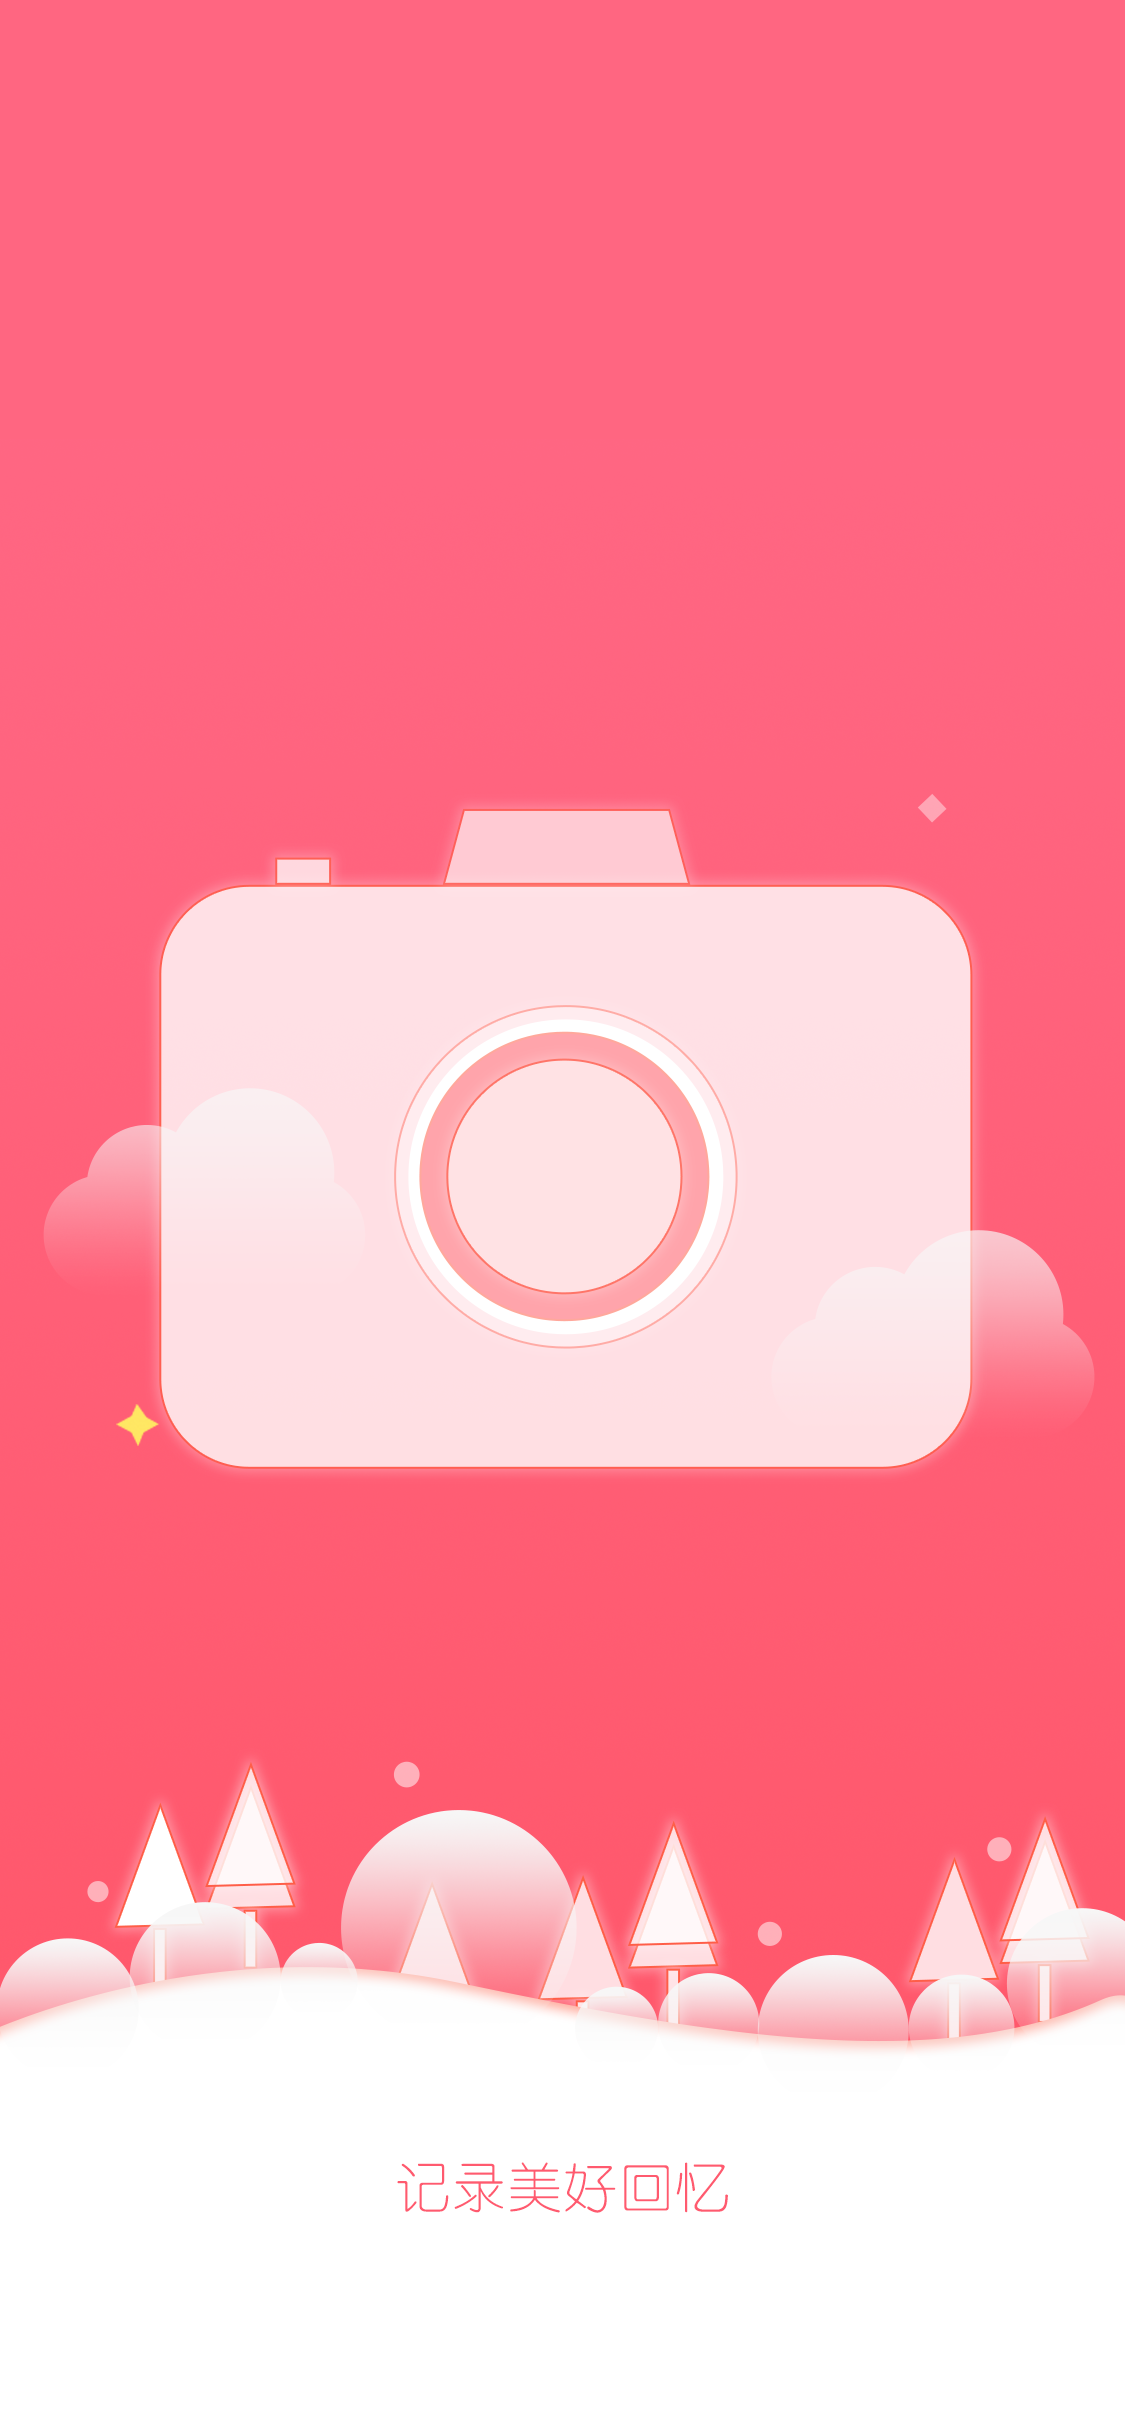
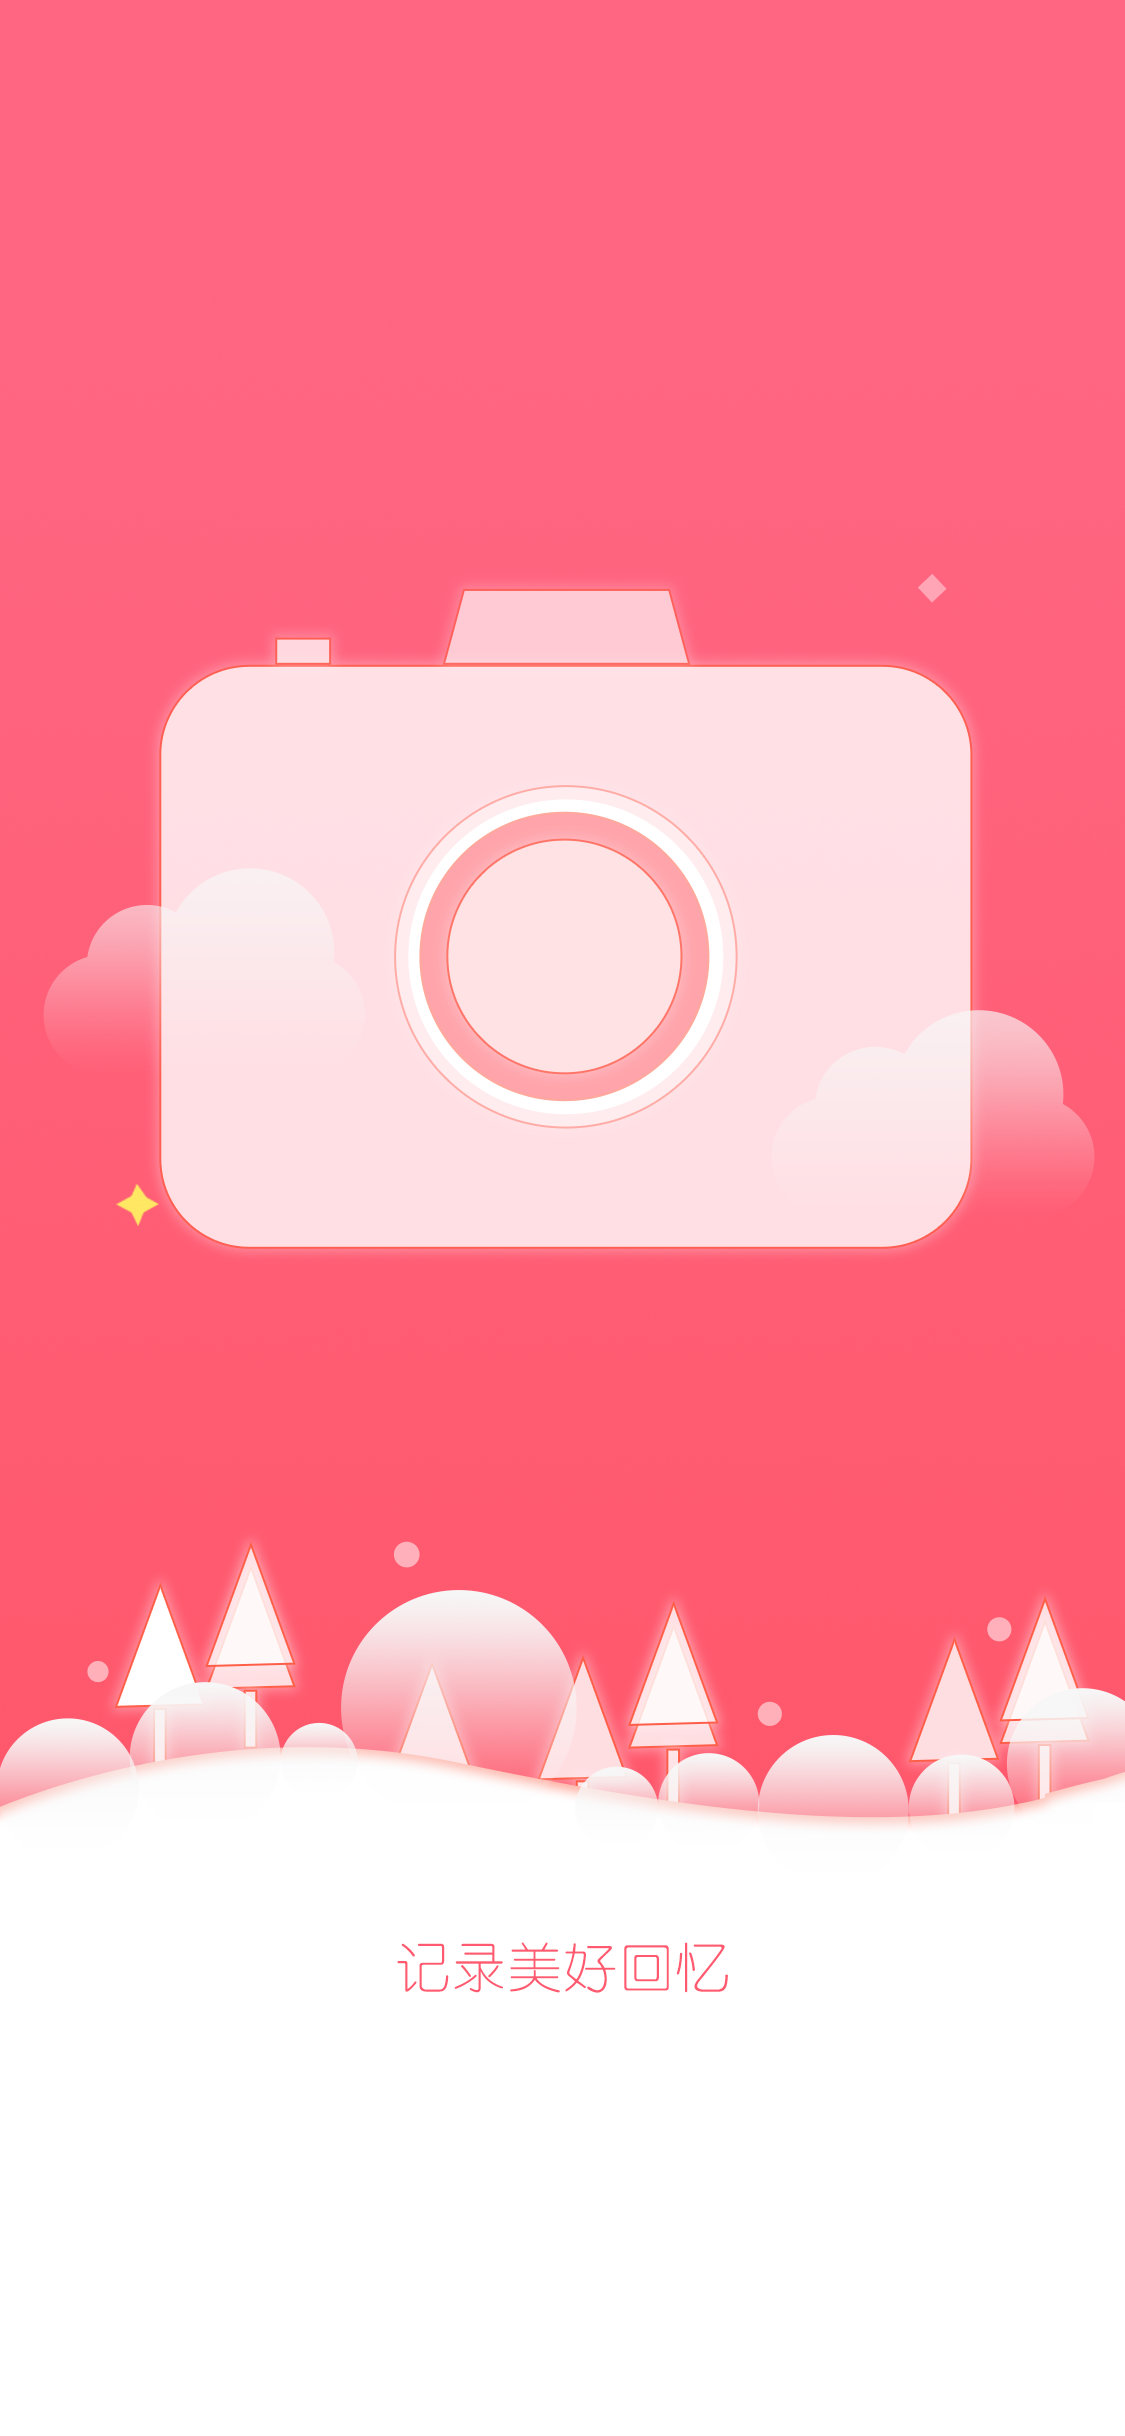
1. 引导页优化 2. 首页标题优化

Changed region(s): [[0.0, 0.2184, 1.0, 0.8424], [0.4044, 0.8736, 0.6222, 0.9048], [0.8089, 0.2184, 0.84, 0.2496]]

diff --git a/lib/pages/slide.dart b/lib/pages/slide.dart
@@ -1,5 +1,5 @@
 import 'package:flutter/material.dart';
-
+import 'package:islove/styles.dart';
 
 class SlidePage extends StatefulWidget {
   @override
@@ -14,10 +14,8 @@ const _slidesAssets = <String>[
   'assets/slides/3.png',
 ];
 
-
 class _SlidePageState extends State<SlidePage> with SingleTickerProviderStateMixin {
   TabController _tabController;
-
 
   @override
   void initState() {
@@ -37,8 +35,14 @@ class _SlidePageState extends State<SlidePage> with SingleTickerProviderStateMix
       child: new TabBarView(
         controller: _tabController,
         children: <Widget>[
-          Image.asset('assets/slides/1.png', fit: BoxFit.cover,),
-          Image.asset('assets/slides/2.png', fit: BoxFit.cover,),
+          Image.asset(
+            'assets/slides/1.png',
+            fit: BoxFit.cover,
+          ),
+          Image.asset(
+            'assets/slides/2.png',
+            fit: BoxFit.cover,
+          ),
           Container(
             constraints: new BoxConstraints.expand(
               height: 200.0,
@@ -49,14 +53,17 @@ class _SlidePageState extends State<SlidePage> with SingleTickerProviderStateMix
               onPressed: () {
                 Navigator.of(context).pushReplacementNamed('/home');
               },
-              child: const Text(""),
+              child: const Text(
+                "是爱",
+                style: const TextStyle(color: Colors.white),
+              ),
+              color: Styles.bannerColor,
             ),
             decoration: new BoxDecoration(
                 image: new DecorationImage(
-                  image: const AssetImage('assets/slides/3.png'),
-                  fit: BoxFit.cover,
-                )
-            ),
+              image: const AssetImage('assets/slides/3.png'),
+              fit: BoxFit.cover,
+            )),
           )
         ],
       ),

diff --git a/lib/pages/home.dart b/lib/pages/home.dart
@@ -1,6 +1,7 @@
 import 'package:flutter/material.dart';
 import 'package:flutter/scheduler.dart' show timeDilation;
 import 'package:islove/api/apiv1.dart';
+import 'package:islove/styles.dart';
 
 class HomePage extends StatefulWidget {
   HomePage({Key key, this.title = "是爱"}) : super(key: key);
@@ -99,7 +100,7 @@ class _HomePageState extends State<HomePage> {
       body = new ListView.builder(
         controller: scrollCtr,
         primary: false,
-        padding: const EdgeInsets.fromLTRB(2.0, 16.0, 2.0, 8.0),
+        padding: const EdgeInsets.fromLTRB(0.0, 16.0, 0.0, 8.0),
         itemCount: _data.flashes.length,
         itemExtent: 128.0,
         itemBuilder: (BuildContext context, int index) {
@@ -142,7 +143,7 @@ class _HomePageState extends State<HomePage> {
           new PreferredSize(
         child: new Material(
           //rgb(254, 98, 89)
-          color: const Color.fromARGB(255, 254, 98, 89), // 匹配 banner 色
+          color: Styles.bannerColor, // 匹配 banner 色
           elevation: 6.0,
           child: new SafeArea(
             top: true,

diff --git a/lib/env.dart b/lib/env.dart
@@ -1,19 +1,19 @@
 class Env {
-  static final _mode = EnvMode.Dev;
+  final _mode = EnvMode.Dev;
 
-  static get dev {
+  get dev {
     return _mode == EnvMode.Dev;
   }
 
-  static get prod {
+  get prod {
     return _mode == EnvMode.Prod;
   }
 
-  static get test {
+  get test {
     return _mode == EnvMode.Test;
   }
 
-  static get mode {
+  get mode {
     return _mode;
   }
 }

diff --git a/lib/api/apiv1.dart b/lib/api/apiv1.dart
@@ -11,7 +11,7 @@ class ApiV1 {
 
   DataV1 _data;
 
-  var url = 'https://xx.wener.me/v1';
+  var url = 'https://islove.wener.me/v1';
   var httpClient = new HttpClient();
 
   DataV1 getDataNow() {

diff --git a/lib/styles.dart b/lib/styles.dart
@@ -1,0 +1,7 @@
+import 'package:flutter/material.dart';
+
+class Styles {
+  static var _bannerColor = const Color.fromARGB(255, 254, 98, 89);
+
+  static get bannerColor => _bannerColor;
+}
